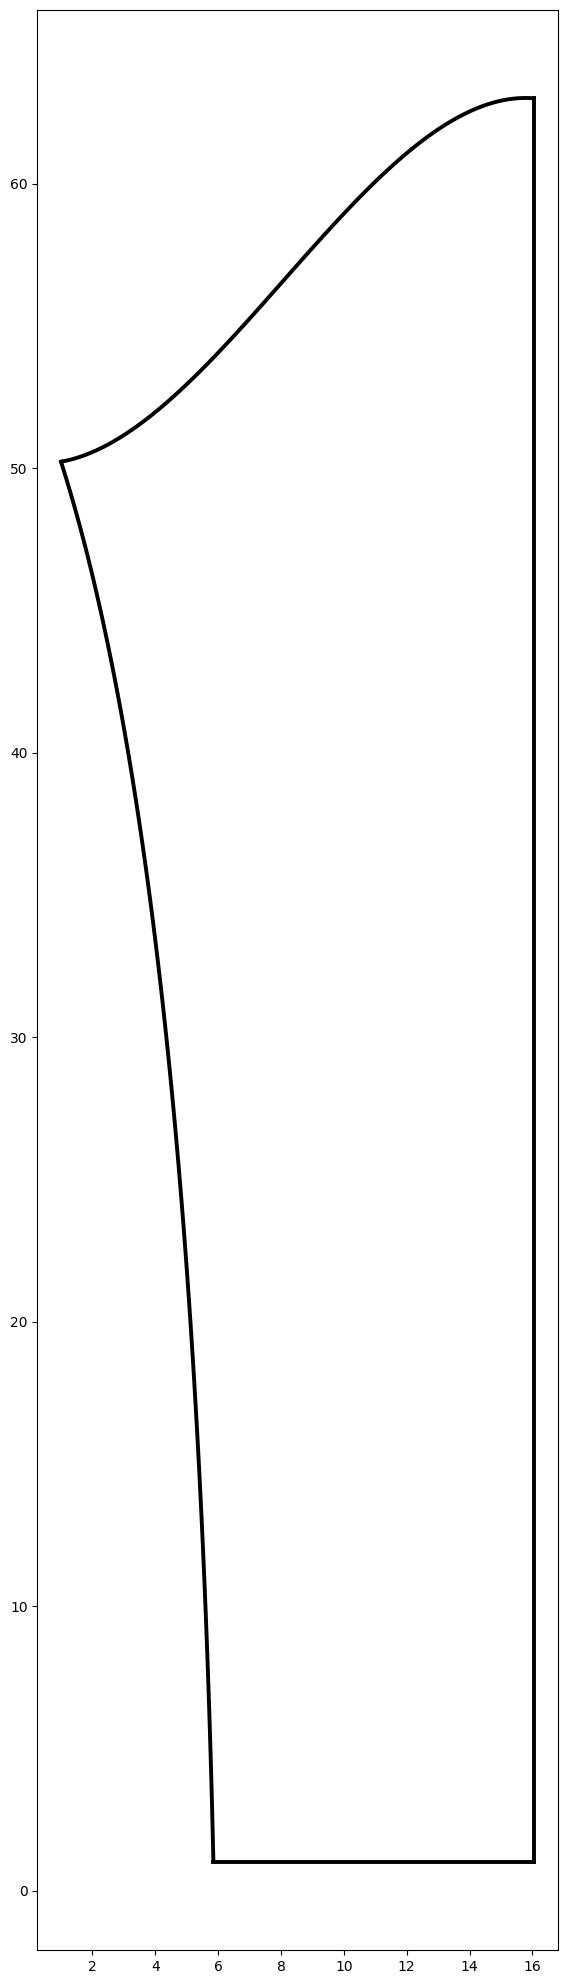
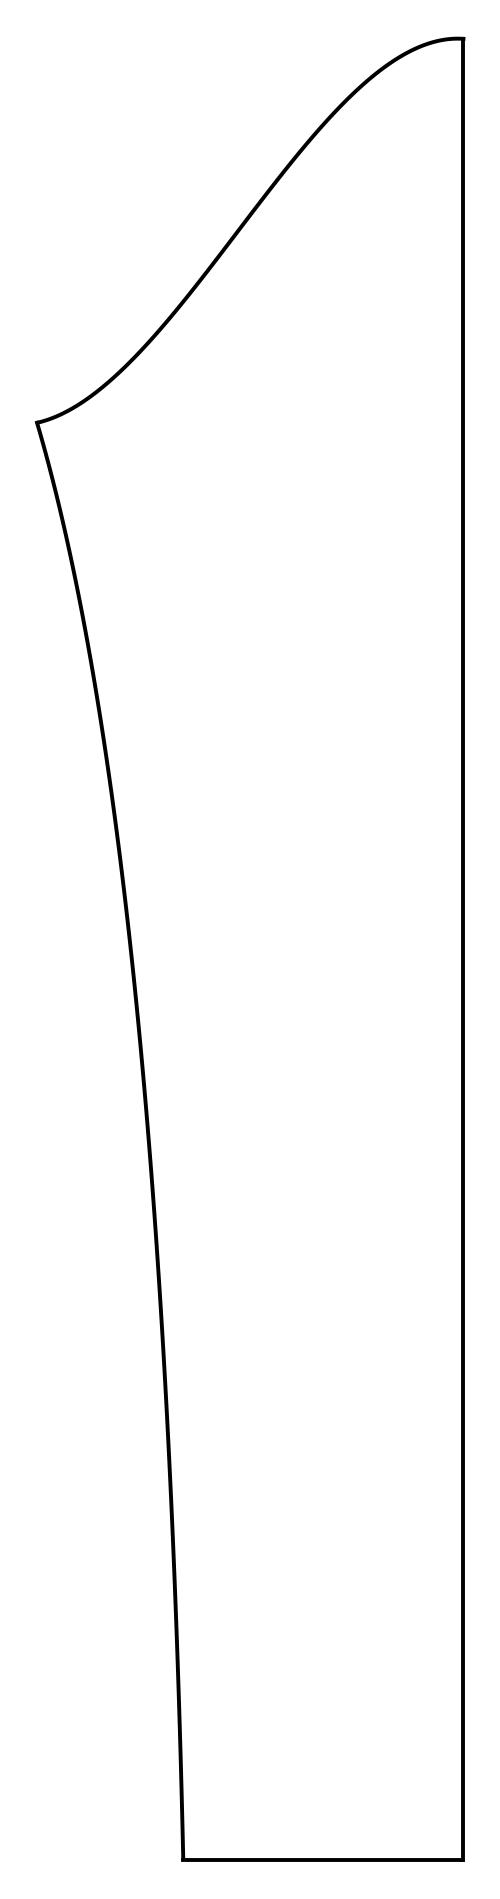
Исправление формулы

Changed region(s): [[0.06, 0.0, 0.96, 0.9942], [0.18, 0.0311, 0.81, 0.2175]]

diff --git a/main.py b/main.py
@@ -216,11 +216,11 @@ VALUES
 ('Боковая_вытачка', '0.25 * (ОБ - ОТ)'),
 ('Вытачка_переда', 'ДИ - 0.5 * ВБ + 1'),
 ('Подъем_талии', 'ДИ + 1.5 + 1'),
-('Ширина_верха', 'ОГ * 0.25 * 0.95 + 1'),
+('Ширина_верха', 'ОГ * 0.25 - 0.05 + 1'),
 ('Линия_талии', '0.25 * ОТ + 1.5'),
 ('Боковой_шов', 'ДИ - ДТС + 2'),
 ('Горловина', 'ОШ / 6 + 2'),
-('Плечо', 'ДПл - 1.5'),
+('Плечо', 'ДПл'),
 ('Угол_проймы', '0.5 * (0.33 * ОПл + 0.5)'),
 ('Глубина_проймы', '0.1 * ОГ + 10.5'),
 ('Высота_оката', '0.5 * ОПл + 1.5'),
@@ -276,10 +276,10 @@ VALUES
 
 (3, '1', '1', 'Ширина_верха', '1', '', ''),
 (3, '1', 'Длина', '1', '1', '', ''),
-(3, 'Горловина', 'Длина + 2', 'Плечо', 'Длина - 1', '', ''),
+(3, 'Горловина', 'Длина + 2', 'Горловина + Корень(Степень(Плечо, 2) - 9) - 1', 'Длина - 1', '', ''),
 (3, '1', 'Длина', 'Горловина', 'Длина + 2', '1.4', '0.98'),
 (3, 'Горловина', 'Длина + 2', '1', 'Длина + 1 - (Горловина - 2.5)', '1.66', '0.95'),
-(3, 'Плечо', 'Длина - 1', 'Ширина_верха', 'Длина - Глубина_проймы', '0.65, 0.65', '0.88, 0.87'),
+(3, 'Горловина + Корень(Степень(Плечо, 2) - 9) - 1', 'Длина - 1', 'Ширина_верха', 'Длина - Глубина_проймы', '0.65, 0.65', '0.88, 0.87'),
 (3, 'Ширина_верха', 'Длина - Глубина_проймы', 'Ширина_верха', '1', '0.84, 0.8, 0.86, 1.01', '0.9, 0.8, 0.8, 0.9'),
 
 (4, 'Высота_оката', 'Длина', 'Высота_оката', '1', '', ''),
